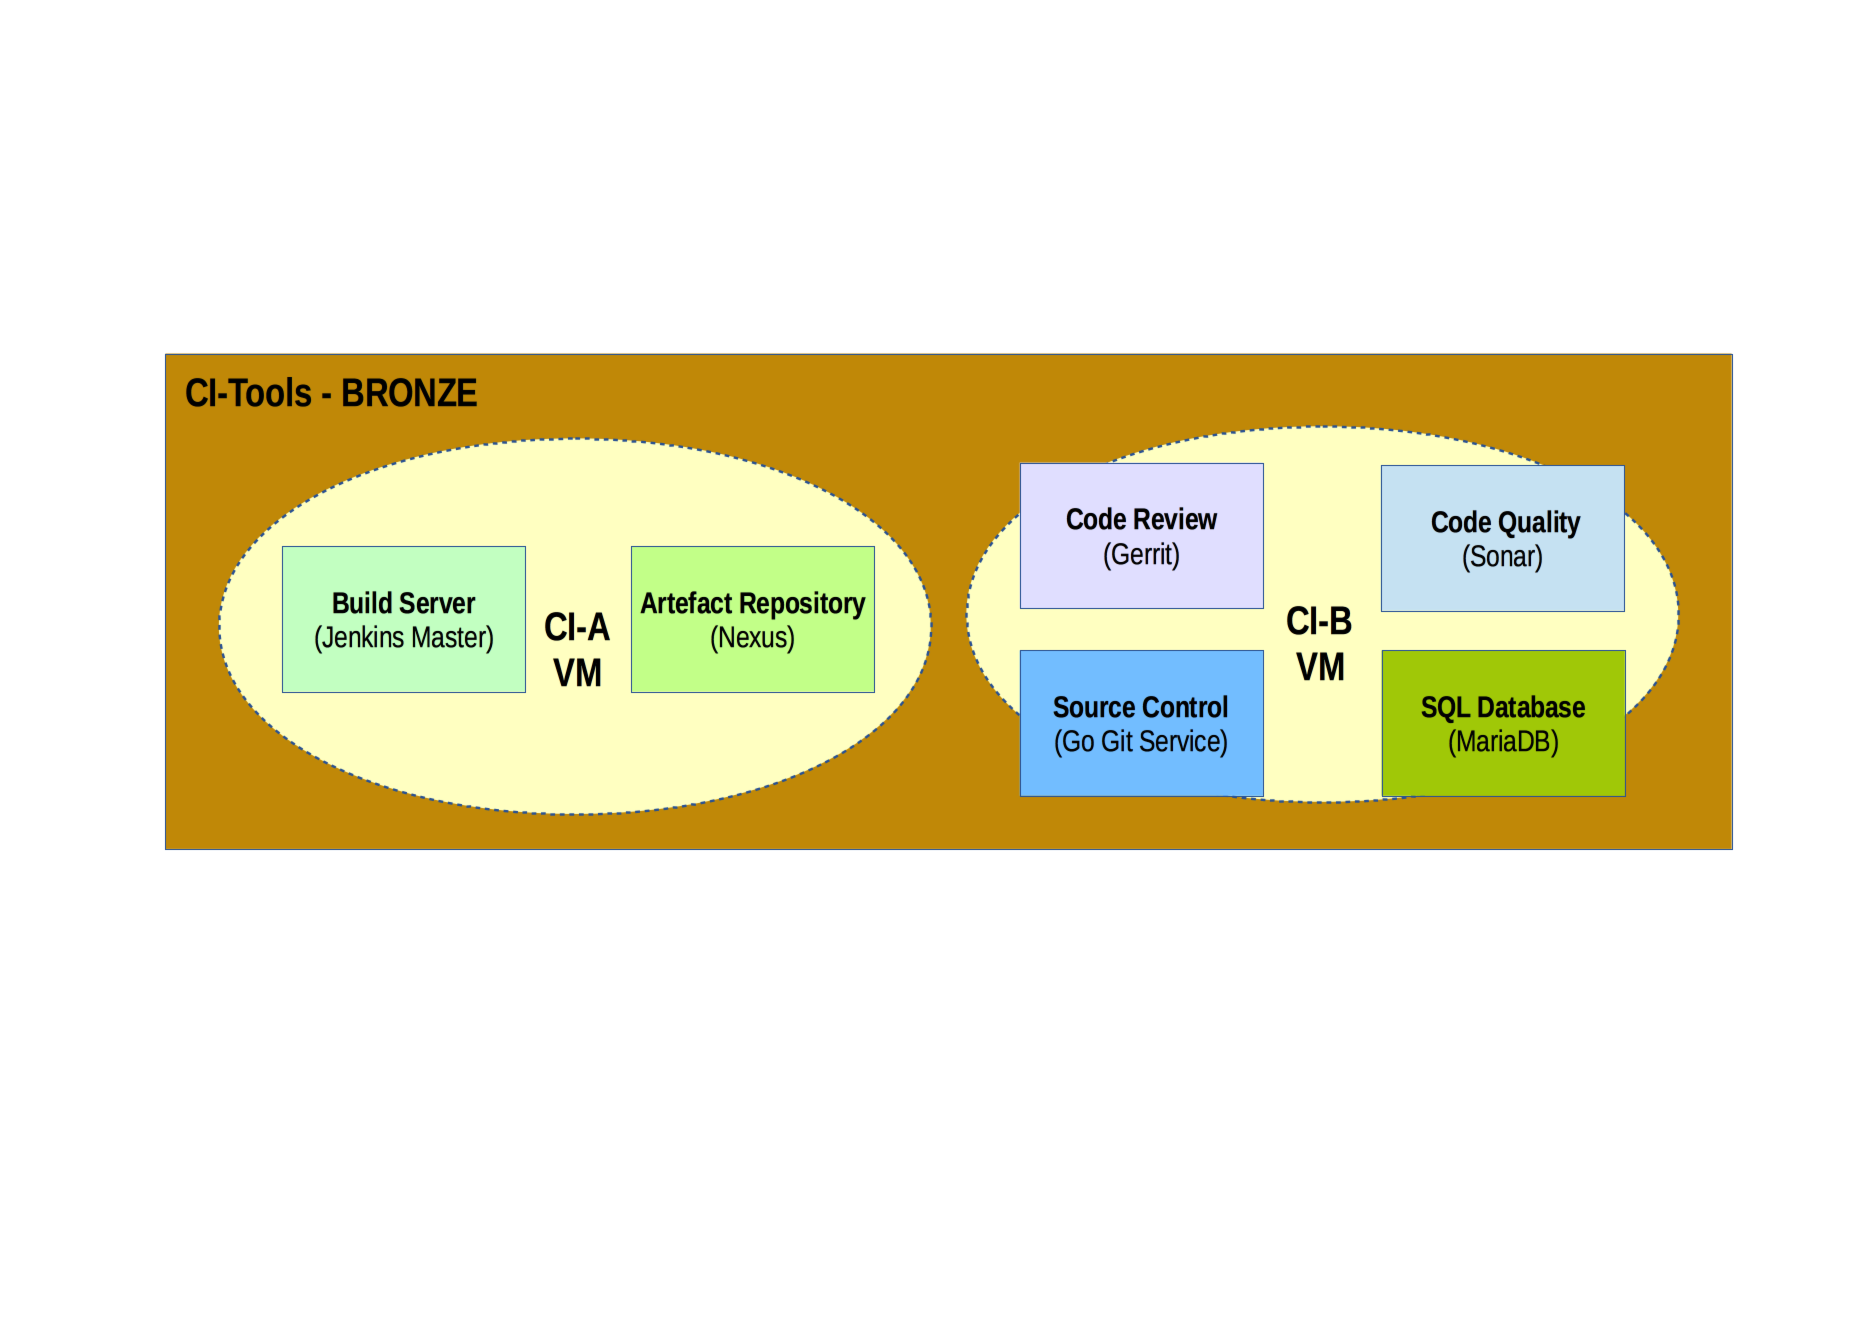
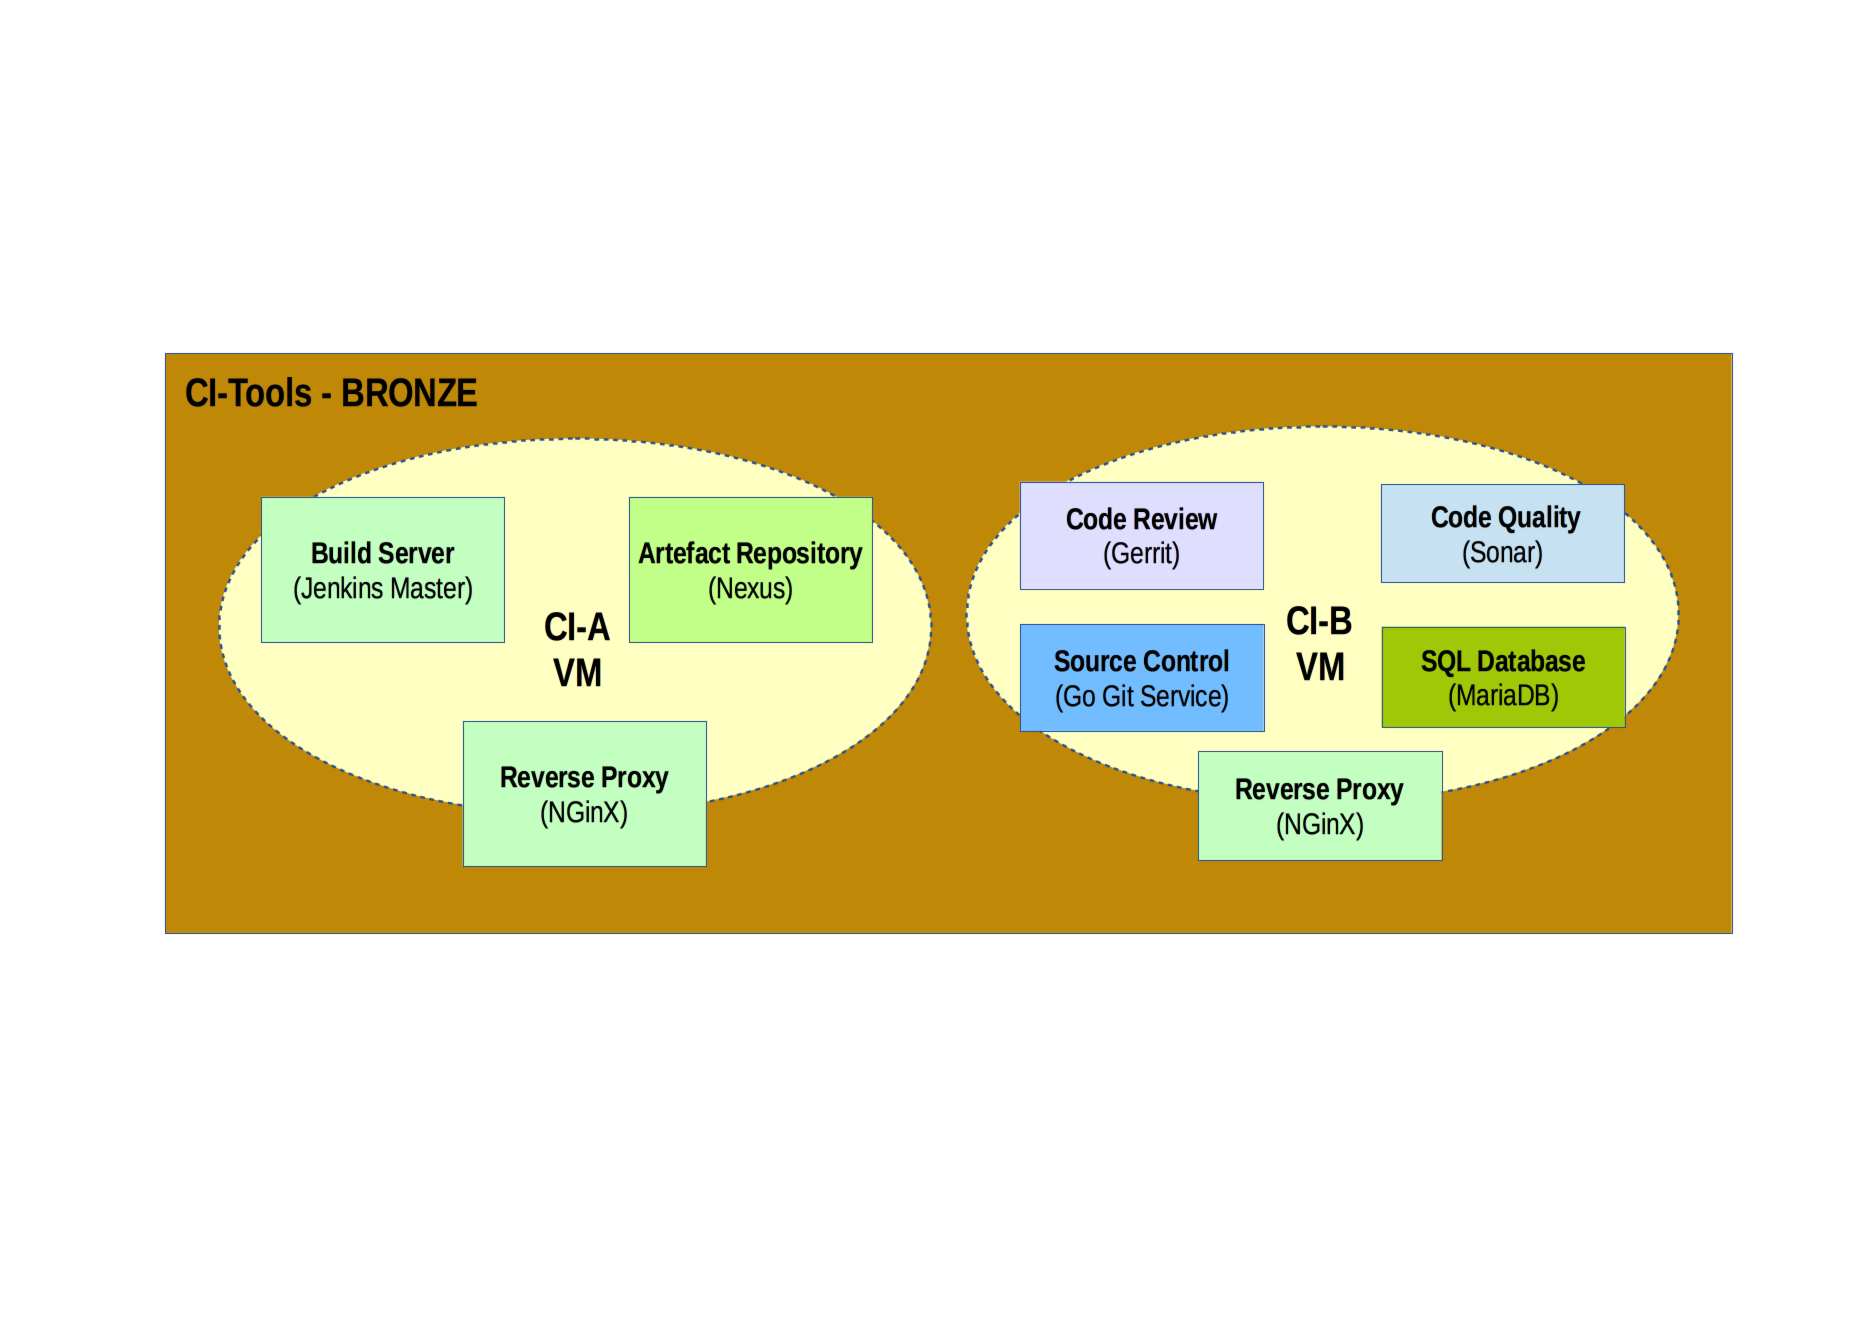
improve documentation.

Changed region(s): [[0.0621, 0.3414, 0.931, 0.7139], [0.5276, 0.3414, 0.6827, 0.3724]]

diff --git a/citools/readme.md b/citools/readme.md
@@ -1,0 +1,52 @@
+# Continuous Integration Tools
+
+The Continuous Integration Tools (CITOOLS) solution is a set of blueprints to automatically deploy a predefined set of 
+Continuous Integrations tools on either Virtual Machine infrastructure or Container Management Infrastructure.
+
+The set of tools in the solution is as follows:
+
+- **Reverse Proxy**: [NGINX](https:/) is used as a reverse proxy server running only on Virtual Machine configurations. The proxy is used to map incoming requests to the various service URI/Ports within the virtual machine.
+- **Build Server**: the build server is [Jenkins](https://jenkins-ci.org/), and is deployed in standalone or master-slave(s) configurations depending on the chosen blueprint.
+- **Source Control Management**: the source code repository can be either GOGS "[GO Git Service](https://gogs.io/)" deployed locally or an RTC [Rational Team Concert](https:/) instance, that is outside of this solution and connected to via configured URI.
+- **Binary Artefact Repository**: the repository where compiled assets are deployed is [Sonatype Nexus](https://).
+- **Code Quality Management**: [SonarQube](http://www.sonarqube.org/) is used to perform static code analysis and provide code quality metrics to the development team.
+- **Database**: [MariaDB](https://mariadb.org/) is the database behind SonarQube and the artefact repository metadata.
+- **Code Review Workflow**: provided via [Gerrit](https://).
+
+## Avaliable Configurations
+
+The CITOOLS solution is available for deployment on the following infrastructure.
+ 
+### Virtual Machine (or Physical) Infrastructure 
+ 
+Running CentOS or RHEL 7, via the following blueprints:
+
+- [Bronze](blueprints/bronze/readme.md): the minimum configuration running on two virtual machines.
+- [Silver](blueprints/silver/readme.md): a relatively small configuration for cases where more performant builds are required. Runs on three virtual machines configuration.
+- [Gold](blueprints/gold/readme.md): a larger and scalable configuration using five virtual machines.
+- [Platinum](blueprints/platinum/readme.md): un-compromised performance for multi-project builds using a configuration of seven virtual machines.
+
+### Container Management Platforms
+
+Running CentOS or RHEL 7 based Docker containers.
+
+This is supported via the [Silicon](blueprints/silicon/readme.md) blueprint.
+In contrast to the Virtual Machine blueprints, the silicon blueprint is used to create Docker Images for each of the services within the CITOOLS solution.
+The images can then be uploaded into a Docker registry, where Container Management platforms can deploy them as needed.
+
+Bootstraps files for deployment are provided for the following Container Management platforms:
+
+- [Openshift Enterprise 3.1](blueprints/silicon/os3)
+- [Docker Compose](blueprints/silicon/compose)
+
+
+### Project Folder Structure
+
+The following table describes the content of the main folders in the CITOOLS project:
+
+| Folder | Content |
+|:--------|:--------|
+| blueprints |The files required to build each blueprint configuration - i.e. playbook, inventory and container creation files. |
+| cache |The cached packages for deployment in offline mode. These packages are downloaded from the internet by the [fetch.sh](fetch.sh) file. |
+| roles | The roles used by the blueprints to deploy the CITOOLS. |
+| scripts | The generic shell library scripts used by other scripts in the solution. |

diff --git a/readme.md b/readme.md
@@ -1,0 +1,7 @@
+# NEUS Project
+
+The NEUS project is an environment automation library aimed at defining, standardising and automating the deployment of software services on both Virtual Machine and Linux Container infrastructure.
+ 
+## Available Solutions
+
+- [CITOOLS](citools/readme.md): provides a pre-defined and ready to deploy set of Continuous Integration tools following pre-defined configurations.

diff --git a/citools/blueprints/platinum/readme.md b/citools/blueprints/platinum/readme.md
@@ -1,0 +1,5 @@
+## CITOOLS - PLATINUM Blueprint
+
+Bronze is a 7-VM blueprint as follows:
+
+![CITOOLS Platimum Blueprint](../../docs/platinum.png)

diff --git a/citools/blueprints/bronze/readme.md b/citools/blueprints/bronze/readme.md
@@ -1,0 +1,5 @@
+## CITOOLS - BRONZE Blueprint
+
+Bronze is a 2-VM blueprint as follows:
+
+![CITOOLS Bronze Blueprint](../../docs/bronze.png)

diff --git a/citools/blueprints/silver/readme.md b/citools/blueprints/silver/readme.md
@@ -1,0 +1,5 @@
+## CITOOLS - SILVER Blueprint
+
+Bronze is a 3-VM blueprint as follows:
+
+![CITOOLS Silver Blueprint](../../docs/silver.png)

diff --git a/citools/blueprints/gold/readme.md b/citools/blueprints/gold/readme.md
@@ -1,0 +1,5 @@
+## CITOOLS - GOLD Blueprint
+
+Bronze is a 5-VM blueprint as follows:
+
+![CITOOLS Gold Blueprint](../../docs/gold.png)
